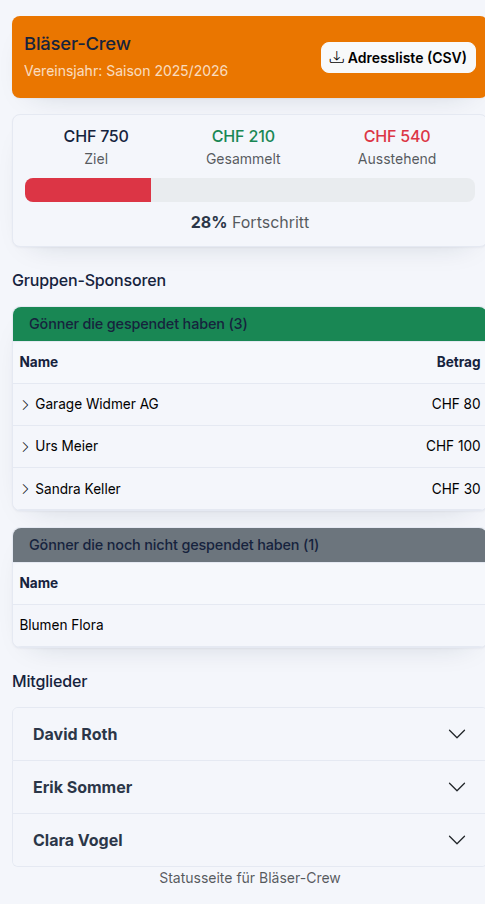
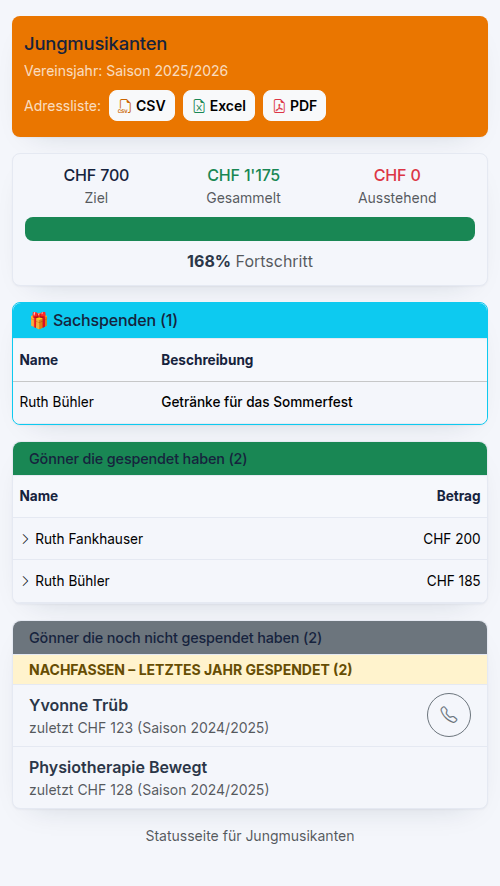
Refresh the README screenshots and correct the data model diagram
Screenshots are regenerated from the demo seed and show the current UI, including
the CSV/Excel/PDF exports. Adds the groups and members overviews. The ER diagram
claimed a FiscalYear-MailJob relation that the schema does not have, and MIT was
listed among the software components.

diff --git a/README.md b/README.md
@@ -8,7 +8,7 @@
 
 Track your patrons, set fiscal-year goals, watch the money come in live, and email every member a personalized donor letter in one click. Self-hosted, four languages.
 
-`Next.js 16` · `TypeScript` · `Prisma + SQLite` · `NextAuth` · `MIT`
+`Next.js 16` · `TypeScript` · `Prisma + SQLite` · `NextAuth` · `React-Bootstrap` · `next-intl`
 
 <img src="screenshots/login.png" width="560" alt="Sign in" />
 
@@ -22,6 +22,8 @@ Track your patrons, set fiscal-year goals, watch the money come in live, and ema
 | ![Dashboard](screenshots/dashboard.png) | ![Reports](screenshots/reports.png) |
 | **Public status link** (mobile, no login) | **Donor mailing** |
 | ![Status link](screenshots/status-link.png) | ![Mailing](screenshots/mailing.png) |
+| **Groups** — copy the status link, export the address list as CSV, Excel or PDF | **Members** |
+| ![Groups](screenshots/groups.png) | ![Members](screenshots/members.png) |
 
 The personalized email each member receives:
 
@@ -73,10 +75,9 @@ erDiagram
     Member ||--o{ Donation : "credited to"
     Group ||--o{ Donation : "credited to"
     FiscalYear ||--o| DonorLetter : "letter"
-    FiscalYear ||--o{ MailJob : "mailing"
 ```
 
-A sponsor belongs to a member **or** a group (exclusive) · targets are per member per fiscal year · one donor letter per fiscal year. `User` and `Setting` stand alone.
+A sponsor belongs to a member **or** a group (exclusive) · targets are per member per fiscal year · one donor letter per fiscal year · one group may be flagged `isClubPool`, which is where sponsors are re-assigned when their member or group is deleted. `User`, `Setting` and `MailJob` stand alone — `MailJob` records a fiscal year id, but as a plain column, not a foreign key.
 
 ---
 
